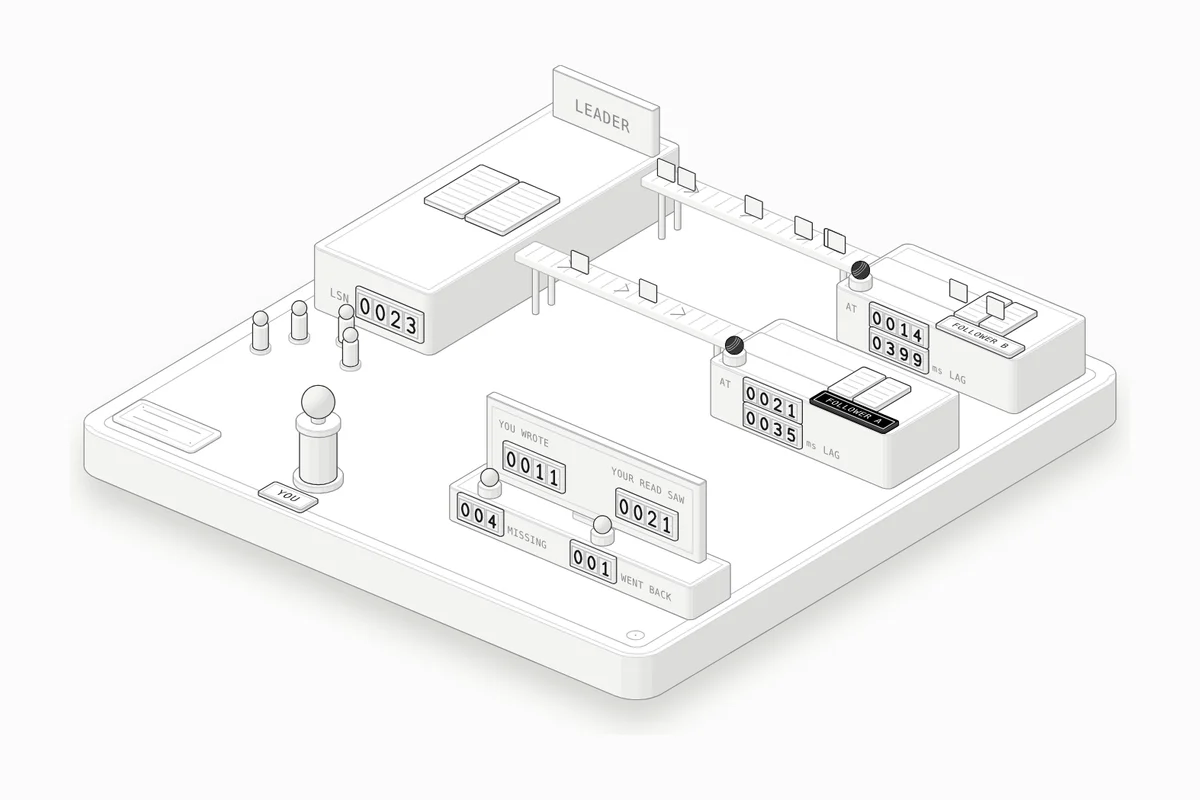
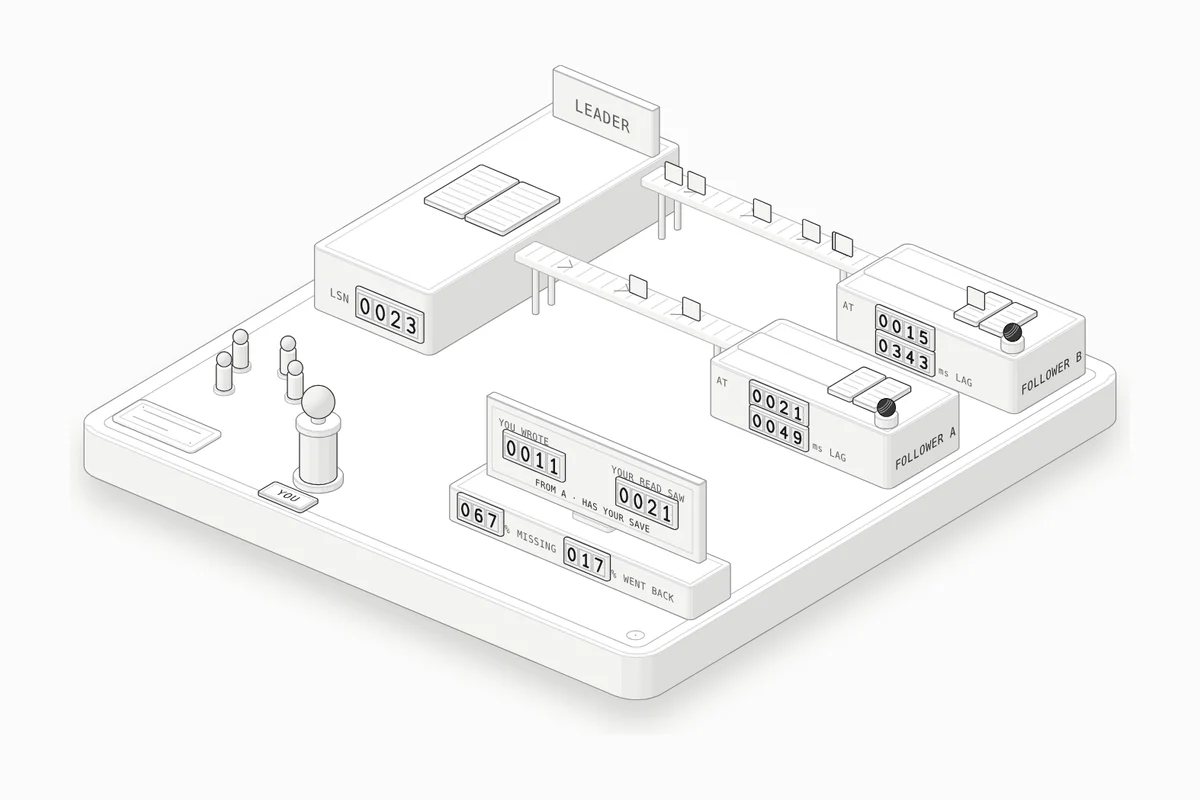
Lesson 60: fix review findings (lit = your save, board shares match the stats, +N on the trays, names on the desks, Watch timing)
Claude-Session: https://claude.ai/code/session_01S5z2gCvevbrGU3fXgpGDmP

diff --git a/src/lessons/replicalag/page.ts b/src/lessons/replicalag/page.ts
@@ -66,7 +66,7 @@ const RUNS = {
         "El retraso de la réplica A llegó a " + s1(w.peak) + ", " + s1(w.peakAfter) + " después de que terminara cada ráfaga, contra " + ms(w.base) + " en promedio el resto del tiempo, y pasó de " + WINDOW + " s durante " + s1(w.over) + ". Con la ventana de " + WINDOW + " s en el líder, " + per(w.missN) + " lecturas por ráfaga no tenían lo que el usuario guardó; siguiendo el LSN, " + per(token.missN) + ", con el " + pct(token.leader) + " de las lecturas en el líder."),
       groups: [
         { title: t("Follower A", "Réplica A"), bars: [[t("Lag, rest of the time (average)", "Retraso, el resto del tiempo (promedio)"), w.base / m, ms(w.base)], [t("Peak lag", "Retraso máximo"), w.peak / m, s1(w.peak), true], [t("Time over " + WINDOW + " s, per burst", "Tiempo por encima de " + WINDOW + " s, por ráfaga"), w.over / m, s1(w.over)]] },
-        { title: t("Reads missing the user's save, per burst", "Lecturas sin lo guardado, por ráfaga"), bars: [[t("Leader " + WINDOW + " s after a save", "Líder " + WINDOW + " s tras guardar"), Math.min(1, w.missN / top(w.missN)), per(w.missN), true], [t("Follower caught up to my LSN", "Réplica al día con mi LSN"), token.missN / top(w.missN), per(token.missN)]] },
+        { title: t("Reads missing the user's save, per burst", "Lecturas sin lo guardado, por ráfaga"), bars: [[t("Leader " + WINDOW + " s after a save", "Líder " + WINDOW + " s tras guardar"), Math.min(1, w.missN / top(w.missN)), per(w.missN), true], [t("Follower caught up to me", "Réplica al día conmigo"), token.missN / top(w.missN), per(token.missN)]] },
       ],
     };
   },
@@ -93,7 +93,7 @@ const EXPERIMENTS = [
       "Asynchronous replication means the leader answers the save as soon as the write is in its own log, and ships it to the followers afterwards: here they applied each write " + DELAY + " after its commit on average. A read-back that lands on a follower sooner than that reads a copy without the save, so " + pct(M.any.miss) + " of read-backs missed it, with nothing failing and both followers keeping up. That is the normal state of async replication, not an incident. Over every read by users who had saved something, only " + pct(M.any.own) + " missed, which is why it hides in a dashboard and is obvious to the user who just pressed Save. On a quiet replica in the same zone lag is often a few milliseconds and the share is smaller, but never zero, and it climbs whenever lag does (experiment 5). The times here are illustrative and round.",
       "Replicación asíncrona significa que el líder responde el guardado apenas la escritura está en su propio log, y se la envía a las réplicas después: aquí aplicaban cada escritura " + DELAY + " después de su commit en promedio. Una lectura tras guardar que cae en una réplica antes de eso lee una copia sin el cambio, así que el " + pct(M.any.miss) + " de las lecturas tras guardar no lo tenía, sin que nada fallara y con las dos réplicas al día. Es el estado normal de la replicación asíncrona, no un incidente. Sobre todas las lecturas de usuarios que ya habían guardado algo, faltó solo en el " + pct(M.any.own) + ", y por eso se esconde en un panel de métricas y es evidente para el usuario que acaba de tocar Guardar. En una réplica tranquila en la misma zona el retraso suele ser de pocos milisegundos y la parte es menor, pero nunca cero, y sube cada vez que sube el retraso (experimento 5). Los tiempos aquí son ilustrativos y redondos.",
     ),
-    watch: { route: "any", commit: "async", b: "healthy" },
+    watch: { route: "any", commit: "async", b: "healthy", until: "miss" },
   },
   {
     id: "mono",
@@ -112,7 +112,7 @@ const EXPERIMENTS = [
       "Each follower only moves forward, but the two are at different points: B is about " + ms(N.any.delayB - N.any.delayA) + " behind A. When the first read lands on A and the second on B before B has caught up to where A was, the user sees time go backwards: " + pct(N.any.quick) + " of quick second reads here. Only that order hurts; going from B to A moves forward, which is why it isn't half of the mixed pairs. The guarantee that a user never sees older data after newer is called monotonic reads. Stick each user to one follower (pick it from a hash of the user ID) and it drops to " + pct(N.sticky.quick) + ". That doesn't make B any fresher: the users stuck to B see older data, but consistently. If their follower fails they move to another, which may be behind the first.",
       "Cada réplica solo avanza, pero las dos están en puntos distintos: B va unos " + ms(N.any.delayB - N.any.delayA) + " detrás de A. Cuando la primera lectura cae en A y la segunda en B antes de que B llegue a donde estaba A, el usuario ve el tiempo ir hacia atrás: el " + pct(N.any.quick) + " de las segundas lecturas rápidas aquí. Solo ese orden hace daño; pasar de B a A avanza, y por eso no es la mitad de los pares mezclados. La garantía de que un usuario nunca vea datos más viejos después de unos más nuevos se llama lecturas monótonas (monotonic reads). Fija cada usuario a una réplica (elígela con un hash del ID de usuario) y baja al " + pct(N.sticky.quick) + ". Eso no hace más fresca a B: los usuarios fijos a B ven datos más viejos, pero de forma consistente. Si su réplica falla pasan a otra, que puede estar detrás de la primera.",
     ),
-    watch: { route: "any", commit: "async", b: "slow" },
+    watch: { route: "any", commit: "async", b: "slow", until: "back" },
   },
   {
     id: "sticky",
@@ -131,7 +131,7 @@ const EXPERIMENTS = [
       "Sticking to a follower makes a user's reads agree with each other; it does nothing to make that follower have the user's write. A read-back still beats replication as often as before: " + pct(Y.sticky.miss) + " stuck to one follower, " + pct(Y.any.miss) + " spread over both (users stuck to B missed " + pct(Y.sticky.missB) + ", users on A " + pct(Y.sticky.missA) + "). Read-your-writes needs the read to go somewhere that has the write. Reading from the leader for " + WINDOW + " s after the user's own save brings it to " + pct(Y.window.miss) + ", but it sends " + pct(Y.window.leader) + " of all reads back to the leader, the load the followers were there to take, and it doesn't stop a second read from going back: a read on the leader followed by one on a follower can (" + pct(Y.window.quick) + " of quick second reads). Rails' automatic role switching works this way, reading from the primary for 2 s after a write by default.",
       "Fijarse a una réplica hace que las lecturas de un usuario coincidan entre sí; no hace que esa réplica tenga la escritura del usuario. Una lectura tras guardar le sigue ganando a la replicación tan seguido como antes: el " + pct(Y.sticky.miss) + " fijo a una réplica, el " + pct(Y.any.miss) + " repartido entre ambas (los usuarios fijos a B fallaron el " + pct(Y.sticky.missB) + ", los de A el " + pct(Y.sticky.missA) + "). Leer tus propias escrituras (read-your-writes) necesita que la lectura vaya a un lugar que tenga la escritura. Leer del líder durante " + WINDOW + " s después del guardado del propio usuario la baja al " + pct(Y.window.miss) + ", pero manda de vuelta al líder el " + pct(Y.window.leader) + " de todas las lecturas, la carga que las réplicas debían quitarle, y no evita que una segunda lectura retroceda: una lectura en el líder seguida de una en una réplica puede hacerlo (el " + pct(Y.window.quick) + " de las segundas lecturas rápidas). El cambio automático de rol de Rails funciona así: lee del primario durante 2 s después de una escritura, por defecto.",
     ),
-    watch: { route: "sticky", commit: "async", b: "slow" },
+    watch: { route: "sticky", commit: "async", b: "slow", until: "miss" },
   },
   {
     id: "sync",
@@ -150,7 +150,7 @@ const EXPERIMENTS = [
       "Semi-synchronous replication (MySQL's, for example) waits until one follower has received the write and stored it in its log, not until it has applied it: it is there so an acknowledged write survives the leader dying. The fast follower acknowledges, and a save takes " + ms(Z.semi.p50) + " instead of " + ms(Z.async.p50) + ". The read-back then lands on B half the time, still far behind, or on A before it has replayed: " + pct(Z.semi.miss) + " of read-backs missed, against " + pct(Z.async.miss) + " async (fewer only because the save itself took longer). Waiting until both followers have applied the write (PostgreSQL's synchronous_commit = remote_apply, with both standbys synchronous) does give read-your-writes, " + pct(Z.sync.miss) + ", but every save waits for the slowest follower: " + ms(Z.sync.p50) + " at the median, " + ms(Z.sync.p99) + " at p99. And if a follower the leader waits for stops, saves stop with it: PostgreSQL waits for a synchronous standby indefinitely, and MySQL's semi-sync falls back to async after a timeout, 10 s by default.",
       "La replicación semisíncrona (la de MySQL, por ejemplo) espera a que una réplica haya recibido la escritura y la haya guardado en su log, no a que la haya aplicado: existe para que una escritura confirmada sobreviva a la caída del líder. Confirma la réplica rápida, y un guardado tarda " + ms(Z.semi.p50) + " en lugar de " + ms(Z.async.p50) + ". Después la lectura tras guardar cae en B la mitad de las veces, todavía muy atrasada, o en A antes de que la aplique: el " + pct(Z.semi.miss) + " de las lecturas tras guardar no lo tenía, contra el " + pct(Z.async.miss) + " asíncrona (menos solo porque el guardado mismo tardó más). Esperar a que las dos réplicas apliquen la escritura (synchronous_commit = remote_apply de PostgreSQL, con las dos réplicas síncronas) sí da leer tus propias escrituras, el " + pct(Z.sync.miss) + ", pero cada guardado espera a la réplica más lenta: " + ms(Z.sync.p50) + " en la mediana y " + ms(Z.sync.p99) + " en el p99. Y si una réplica a la que el líder espera se detiene, los guardados se detienen con ella: PostgreSQL espera a una réplica síncrona indefinidamente, y la semisíncrona de MySQL vuelve a asíncrona tras un tiempo límite (timeout), 10 s por defecto.",
     ),
-    watch: { route: "any", commit: "semi", b: "slow" },
+    watch: { route: "any", commit: "semi", b: "slow", until: "miss" },
   },
   {
     id: "burst",
@@ -168,7 +168,7 @@ const EXPERIMENTS = [
       "Replication lag is a queue (lesson 33, Queues). The leader takes writes from many connections at once; a follower replays them in log order, here up to " + APPLY_RATE + " a second (PostgreSQL replays WAL in a single process). During the burst writes arrive faster than that and the line on A's tray grows. The lag, the age of the oldest write not yet replayed, keeps growing even after the burst ends, because A is still working through writes that came in faster than it copies them: it peaked at " + s1(B.window.peak) + " as the last of them was replayed, " + s1(B.window.peakAfter) + " after the burst, against " + ms(B.window.base) + " on average otherwise. A " + WINDOW + " s leader window is sized for normal lag; for " + s1(B.window.over) + " per burst reads more than a second after a save went to followers that didn't have it yet: " + per(B.window.missN) + " per burst. Tracking the LSN instead (the client keeps the LSN of its last write, and of the newest data it has seen, and reads from a follower only if it has replayed that far, else from the leader) missed " + per(B.token.missN) + " and kept second reads from going back, at the cost of " + pct(B.token.leader) + " of reads on the leader, " + pct(B.token.leaderInBursts) + " of those in the 15 s after a burst began, about a quarter of the time. PostgreSQL exposes the LSNs (pg_current_wal_lsn() on the leader, pg_last_wal_replay_lsn() on a standby), MySQL has GTIDs and WAIT_FOR_EXECUTED_GTID_SET(), and MongoDB's causally consistent sessions carry the same kind of token.",
       "El retraso de replicación es una cola (lección 33, Colas). El líder recibe escrituras de muchas conexiones a la vez; una réplica las aplica en el orden del log, aquí hasta " + APPLY_RATE + " por segundo (PostgreSQL aplica el WAL en un solo proceso). Durante la ráfaga las escrituras llegan más rápido que eso y la fila en la bandeja de A crece. El retraso, la edad de la escritura más vieja todavía sin aplicar, sigue creciendo incluso después de que termina la ráfaga, porque A todavía está procesando escrituras que llegaron más rápido de lo que las copia: llegó a " + s1(B.window.peak) + " cuando aplicó la última, " + s1(B.window.peakAfter) + " después de la ráfaga, contra " + ms(B.window.base) + " en promedio el resto del tiempo. Una ventana de " + WINDOW + " s en el líder está pensada para el retraso normal; durante " + s1(B.window.over) + " por ráfaga, las lecturas más de un segundo después de guardar fueron a réplicas que todavía no tenían el cambio: " + per(B.window.missN) + " por ráfaga. Seguir el LSN (el cliente guarda el LSN de su última escritura, y el de los datos más nuevos que vio, y lee de una réplica solo si ya aplicó hasta ahí, si no del líder) falló " + per(B.token.missN) + " veces y evitó también que las segundas lecturas retrocedieran, a cambio de mandar al líder el " + pct(B.token.leader) + " de las lecturas, el " + pct(B.token.leaderInBursts) + " de ellas en los 15 s después de que empezaba una ráfaga, más o menos un cuarto del tiempo. PostgreSQL expone los LSN (pg_current_wal_lsn() en el líder, pg_last_wal_replay_lsn() en una réplica), MySQL tiene los GTID y WAIT_FOR_EXECUTED_GTID_SET(), y las sesiones con consistencia causal de MongoDB llevan el mismo tipo de marca.",
     ),
-    watch: { route: "window", commit: "async", b: "healthy", burst: true, speed: 0.25 },
+    watch: { route: "window", commit: "async", b: "healthy", burst: 0.3, jump: 1.3, speed: 0.25 },
   },
 ];
 
@@ -204,13 +204,13 @@ export default defineLesson({
     plate: {
       title: t("Copy desks", "Mesas de copia"),
       keys: [
-        { mark: "lit", label: t("Your latest save's slip, the desks that have it, where your last read was served, and a read that missed it or went back", "El papel de tu último guardado, las mesas que lo tienen, dónde se atendió tu última lectura, y una lectura que no lo tenía o retrocedió") },
+        { mark: "lit", label: t("Your latest save: its slip, and the lamp on each desk that has copied it", "Tu último guardado: su papel, y la lámpara de cada mesa que ya lo copió") },
         { mark: "raised", label: t("The leader, the follower desks, the slips on their way", "El líder, las mesas de las réplicas, los papeles en camino") },
         { mark: "flat", label: t("The conveyors: the replication stream, in log order", "Las cintas: el flujo de replicación, en el orden del log") },
       ],
       caption: t(
-        "Played at a tenth of real speed (change it under Speed). The times are illustrative and round: a write reaches a healthy follower " + range(NET.healthy) + " after its commit and takes " + Math.round(1000 * APPLY.healthy) + " ms to replay; a slow B takes " + range(NET.slow) + " and " + Math.round(1000 * APPLY.slow) + " ms. " + USERS + " users browse and save; everyone else adds about " + OTHERS + " writes a second. LSN is the leader's last write; AT, the last one a desk has copied; LAG, how old the oldest write it hasn't copied is. MISSING counts read-backs (the read " + BACK_RANGE + " after a save) without the user's save; WENT BACK, second reads that showed less than the read before.",
-        "Se reproduce a un décimo de la velocidad real (cámbiala en Velocidad). Los tiempos son ilustrativos y redondos: una escritura llega a una réplica sana " + range(NET.healthy) + " después de su commit y tarda " + Math.round(1000 * APPLY.healthy) + " ms en aplicarse; una B lenta tarda " + range(NET.slow) + " y " + Math.round(1000 * APPLY.slow) + " ms. " + USERS + " usuarios navegan y guardan; todos los demás agregan unas " + OTHERS + " escrituras por segundo. LSN es la última escritura del líder; EN, la última que copió una mesa; RETRASO, qué tan vieja es la escritura más antigua que todavía no copió. FALTA cuenta las lecturas tras guardar (la lectura " + BACK_RANGE + " después de un guardado) sin lo que el usuario guardó; RETROCEDIÓ, las segundas lecturas que mostraron menos que la anterior.",
+        "Played at a tenth of real speed (change it under Speed). The times are illustrative and round: a write reaches a healthy follower " + range(NET.healthy) + " after its commit and takes " + Math.round(1000 * APPLY.healthy) + " ms to replay; a slow B takes " + range(NET.slow) + " and " + Math.round(1000 * APPLY.slow) + " ms. " + USERS + " users browse and save; everyone else adds about " + OTHERS + " writes a second. LSN is the leader's last write; AT, the last one a desk has copied; LAG, how old the oldest write it hasn't copied is; +N, the slips waiting beyond the tray. Your board shows where your last read went and what it saw; below, for every user, MISSING is the share of read-backs (the read " + BACK_RANGE + " after a save) without the user's save, and WENT BACK the share of second reads that showed less than the read before.",
+        "Se reproduce a un décimo de la velocidad real (cámbiala en Velocidad). Los tiempos son ilustrativos y redondos: una escritura llega a una réplica sana " + range(NET.healthy) + " después de su commit y tarda " + Math.round(1000 * APPLY.healthy) + " ms en aplicarse; una B lenta tarda " + range(NET.slow) + " y " + Math.round(1000 * APPLY.slow) + " ms. " + USERS + " usuarios navegan y guardan; todos los demás agregan unas " + OTHERS + " escrituras por segundo. LSN es la última escritura del líder; VA EN, la última que copió una mesa; RETRASO, qué tan vieja es la escritura más antigua que todavía no copió; +N, los papeles que esperan más allá de la bandeja. Tu tablero muestra a dónde fue tu última lectura y qué vio; abajo, para todos los usuarios, FALTA es la parte de las lecturas tras guardar (la lectura " + BACK_RANGE + " después de un guardado) sin lo que el usuario guardó, y RETROCEDIÓ la parte de las segundas lecturas que mostraron menos que la anterior.",
       ),
       stage: { "data-copy-desks": "" },
       label: t("Replication lag simulation. Space pauses or resumes.", "Simulación de retraso de replicación. Espacio pausa o reanuda."),

diff --git a/src/lessons/replicalag/figure.ts b/src/lessons/replicalag/figure.ts
@@ -3,9 +3,10 @@
 // on the front, the users who write to it standing by. Two conveyors carry a slip for each entry, in order, to the
 // copy desks, followers A and B; at each desk the slips wait in line on a tray and are copied one at a time into
 // the desk's own ledger, and the counters on the desk's front say how far it has got (AT) and how old the oldest
-// entry it hasn't copied yet is (LAG). The slip of your own latest save is lit. In front, you, and the board that
-// shows what you wrote and what your last read saw. The leader's sign or a desk's name plate lights where your
-// last read was served.
+// entry it hasn't copied yet is (LAG); a "+N" tag counts the slips the tray has no room to show. Your own latest
+// save is lit: its slip, and the lamp on each desk that has copied it. In front, you, and the board that shows what
+// you wrote, what your last read saw and where it was served, over the share of read-backs that missed the user's
+// save (MISSING) and of second reads that went back (WENT BACK), for every user.
 // Built with the Anatomy kit (MIT, github.com/wheresryan22/anatomy) and the shared workbench parts.
 import * as k from "../../../workbench/kit.mjs";
 import { basePlate, labelPlate, digitCounter, lamp, person, figurine, plaque, faceText, litFill } from "../../../workbench/parts.mjs";
@@ -75,17 +76,16 @@ function leader() {
   out.push(ledger(LEAD.x + 7, LEAD.y + 40, 26, 22, LEAD_H, 7));
   // the sign at the back of its top
   const sign = { x: LEAD.x + 4, y: LEAD.y + 6, w: 32, d: 3, r: 0.5 };
-  // (lit when your last read was served here)
-  out.push(`<g class="wb-lit-group" data-node="L">` + S(k.slabOf(sign, LEAD_H, 13, P, 3, 0.3), { tone: "mid", crease: "lo" })
-    + text(sign.x + sign.w / 2, sign.y + sign.d, LEAD_H + 4.2, t("LEADER", "LÍDER"), 4.6, { anchor: "middle" }) + `</g>`);
+  out.push(S(k.slabOf(sign, LEAD_H, 13, P, 3, 0.3), { tone: "mid", crease: "lo" })
+    + text(sign.x + sign.w / 2, sign.y + sign.d, LEAD_H + 4.2, t("LEADER", "LÍDER"), 4.6, { anchor: "middle" }));
   // its LSN on the front face
   out.push(text(LEAD.x + 6, LEAD_FRONT, 5.4, "LSN", 3.2));
   out.push(digitCounter(P, { x: LEAD.x + 15, y: LEAD_FRONT, z: 3.6, count: 4, w: 4.4, h: 6, gap: 0.5, pad: 1, name: "lsn" }));
   return out.join("");
 }
-// The users who write to the leader: a small crowd by its front.
+// The users who write to the leader: a small crowd in front of it, clear of its LSN counter.
 function crowd() {
-  return [[-82, -16], [-72, -22], [-64, -14], [-86, -6]].map(([x, y]) => figurine(P, [x, y, 0], { scale: 0.8 })).join("");
+  return [[-84, 4], [-73, -1], [-64, 7], [-80, 15]].map(([x, y]) => figurine(P, [x, y, 0], { scale: 0.8 })).join("");
 }
 
 // ---------- the conveyors ----------
@@ -115,23 +115,25 @@ function desk(i) {
   out.push(S(k.slabOf({ x: d.x + 1.5, y: y - 4.5, w: 30, d: 9, r: 0.6 }, DESK_H, 0.6, P, 2, 0.2), { tone: "lo", crease: "none" }));
   // the copy of the ledger
   out.push(ledger(d.x + BOOK.dx, y - BOOK.d / 2, BOOK.w, BOOK.d, DESK_H, 5));
-  // its name plate, lying at the front: lit when your last read was served here (an upright sign would hide B)
-  out.push(`<g class="wb-lit-group" data-node="${i}">` + plaque(P, { x: d.x + 32, y: d.y + 21.4, z: DESK_H, w: 24, d: 6.2, text: t("FOLLOWER " + name, "RÉPLICA " + name), size: 2.7 }) + `</g>`);
+  // its name, on the right face (an upright sign on the top would hide B)
+  out.push(faceText(P, [d.x + d.w, d.y + d.d - 2.4, 4.6], t("FOLLOWER " + name, "RÉPLICA " + name), { face: "x", size: 3.6, tone: "hi" }));
+  // the slips the tray has no room to show, at the end of the line where they come in
+  out.push(faceText(P, [d.x + 2, y + 9.6, DESK_H], "", { face: "top", size: 4.4, tone: "hi", attr: `data-more="${i}"` }));
   return out.join("");
 }
 // The desk's front face: how far it has got (AT, an LSN) on top, how far behind (ms) below.
 function counters(i) {
   const d = DESKS[i], front = d.y + d.d;
-  return text(d.x + 4, front, 10, t("AT", "EN"), 2.8)
-    + digitCounter(P, { x: d.x + 12, y: front, z: 8.8, count: 4, w: 3.8, h: 4.6, gap: 0.5, pad: 0.8, name: "at" + i })
-    + digitCounter(P, { x: d.x + 12, y: front, z: 1.8, count: 4, w: 3.8, h: 4.6, gap: 0.5, pad: 0.8, name: "lag" + i })
-    + text(d.x + 31.6, front, 2.9, "ms", 2.6)
-    + text(d.x + 37, front, 2.9, t("LAG", "RETRASO"), 2.8);
+  return text(d.x + 3, front, 10, t("AT", "VA EN"), 2.8)
+    + digitCounter(P, { x: d.x + 14, y: front, z: 8.8, count: 4, w: 3.8, h: 4.6, gap: 0.5, pad: 0.8, name: "at" + i })
+    + digitCounter(P, { x: d.x + 14, y: front, z: 1.8, count: 4, w: 3.8, h: 4.6, gap: 0.5, pad: 0.8, name: "lag" + i })
+    + text(d.x + 33.6, front, 2.9, "ms", 2.6)
+    + text(d.x + 39, front, 2.9, t("LAG", "RETRASO"), 2.8);
 }
 // The lamp that lights once the desk has applied your latest save.
 function yours(i) {
   const d = DESKS[i];
-  const p = [d.x + 5, d.y + d.d - 4.4, DESK_H];
+  const p = [d.x + 53, d.y + d.d - 5, DESK_H];
   return `<g data-lamp="yours${i}"><g data-off-lamp>${lamp(P, p, { r: 2.2 })}</g><g data-on-lamp style="display:none">${litFill(lamp(P, p, { r: 2.2, lit: true }))}</g></g>`;
 }
 
@@ -140,27 +142,23 @@ function board() {
   const out = [S(k.slabOf(BOARD, 0, BOARD_H, P, 3, 0.5), { tone: "mid" })];
   out.push(L(k.planOutline(k.insetPlan(BOARD, 1.8), BOARD_H, P), { tone: "faint" }));
   const front = BOARD.y + BOARD.d;
-  // everyone's totals on the front face
-  out.push(digitCounter(P, { x: BOARD.x + 4, y: front, z: 2.2, count: 3, w: 3.8, h: 5, gap: 0.5, pad: 0.9, name: "missing" }));
-  out.push(text(BOARD.x + 19.4, front, 3.2, t("MISSING", "FALTA"), 2.8));
-  out.push(digitCounter(P, { x: BOARD.x + 40, y: front, z: 2.2, count: 3, w: 3.8, h: 5, gap: 0.5, pad: 0.9, name: "wentBack" }));
-  out.push(text(BOARD.x + 55.6, front, 3.2, t("WENT BACK", "RETROCEDIÓ"), 2.8));
-  // the screen on top: what you wrote, what your last read saw
+  // everyone's shares on the front face, as the panel shows them
+  const share = (x, name, words) => digitCounter(P, { x, y: front, z: 2.2, count: 3, w: 3.8, h: 5, gap: 0.5, pad: 0.9, name })
+    + text(x + 14.4, front, 3.2, "%", 2.8) + text(x + 18.4, front, 3.2, words, 2.8);
+  out.push(share(BOARD.x + 4, "missing", t("MISSING", "FALTA")));
+  out.push(share(BOARD.x + 38, "wentBack", t("WENT BACK", "RETROCEDIÓ")));
+  // the screen on top: what you wrote, what your last read saw, and where it was served
   out.push(S(k.slabOf({ x: SCREEN.x + SCREEN.w / 2 - 6, y: SCREEN.y - 3, w: 12, d: 7, r: 1 }, BOARD_H, 1.4, P, 3, 0.3), { tone: "lo" }));
   out.push(S(k.slabOf(SCREEN, BOARD_H + 1.4, SCREEN_H, P, 3, 0.4), { tone: "mid", crease: "lo" }));
   const z0 = BOARD_H + 1.4, top = z0 + SCREEN_H, face = SCREEN.y + SCREEN.d;
   out.push(L(k.faceRectY(P, SCREEN.x + 2, SCREEN.x + SCREEN.w - 2, face, z0 + 2, top - 2), { tone: "faint" }));
-  out.push(text(SCREEN.x + 4, face, top - 7, t("YOU WROTE", "ESCRIBISTE"), 2.8));
-  out.push(digitCounter(P, { x: SCREEN.x + 6, y: face, z: z0 + 4.4, count: 4, w: 4, h: 5.6, gap: 0.5, pad: 0.9, name: "wrote" }));
-  out.push(text(SCREEN.x + 40, face, top - 7, t("YOUR READ SAW", "TU LECTURA VIO"), 2.8));
-  out.push(digitCounter(P, { x: SCREEN.x + 42, y: face, z: z0 + 4.4, count: 4, w: 4, h: 5.6, gap: 0.5, pad: 0.9, name: "saw" }));
+  out.push(text(SCREEN.x + 4, face, top - 6.6, t("YOU WROTE", "ESCRIBISTE"), 2.8));
+  out.push(digitCounter(P, { x: SCREEN.x + 6, y: face, z: z0 + 7.6, count: 4, w: 4, h: 5.6, gap: 0.5, pad: 0.9, name: "wrote" }));
+  out.push(text(SCREEN.x + 40, face, top - 6.6, t("YOUR READ SAW", "TU LECTURA VIO"), 2.8));
+  out.push(digitCounter(P, { x: SCREEN.x + 42, y: face, z: z0 + 7.6, count: 4, w: 4, h: 5.6, gap: 0.5, pad: 0.9, name: "saw" }));
+  // one line under them, set live: where your last read went, and whether it had your save
+  out.push(faceText(P, [SCREEN.x + SCREEN.w / 2, face, z0 + 2.8], "", { size: 2.6, tone: "hi", anchor: "middle", attr: "data-verdict" }));
   return out.join("");
-}
-// On the board's top, in front of the screen, over each total: lit when your last read missed your save, or went back.
-function boardLamps() {
-  const y = BOARD.y + BOARD.d - 4.4;
-  const lampAt = (x, name) => `<g data-lamp="${name}"><g data-off-lamp>${lamp(P, [x, y, BOARD_H], { r: 2.2 })}</g><g data-on-lamp style="display:none">${litFill(lamp(P, [x, y, BOARD_H], { r: 2.2, lit: true }))}</g></g>`;
-  return lampAt(BOARD.x + 10, "missing") + lampAt(BOARD.x + 46, "back");
 }
 function you() {
   return person(P, YOU, { scale: 1.1 }) + plaque(P, { x: YOU[0] - 7, y: YOU[1] + 8, w: 14, d: 7, text: t("YOU", "TÚ"), size: 3.4 });
@@ -179,8 +177,8 @@ export function buildFigure() {
     width: WIDTH,
     height: HEIGHT,
     label: t(
-      "A main ledger and two copy desks on a base plate. On the left, the leader: a long block with an open ledger on top, a LEADER sign, and its LSN counter on the front, the number of the last write it took; a few users stand by it. Two conveyors run from the leader to two copy desks on the right, follower A in front and follower B at the back, carrying a slip for every write, in order. On each desk the slips wait on a tray and are copied one at a time into the desk's own ledger, and the desk's front shows how far it has got (AT, an LSN) and how many milliseconds old the oldest write it hasn't copied is (LAG). The slip for your own latest save is lit, and a lamp on each desk lights once that desk has copied it. In front stand you and your board: what you wrote and what your last read saw, a MISSING lamp when that read didn't have your save and a WENT BACK lamp when it showed less than a read before it, each over a counter that adds them up for every user. The LEADER sign or a desk's name plate lights where your last read was served.",
-      "Un libro mayor y dos mesas de copia sobre una placa base. A la izquierda, el líder: un bloque largo con un libro abierto encima, un letrero LÍDER y su contador LSN al frente, el número de la última escritura que recibió; unos usuarios esperan a su lado. Dos cintas transportadoras van del líder a dos mesas de copia a la derecha, la réplica A adelante y la réplica B al fondo, y llevan un papel por cada escritura, en orden. En cada mesa los papeles esperan en una bandeja y se copian uno a la vez en el libro propio de la mesa, y el frente de la mesa muestra hasta dónde llegó (EN, un LSN) y cuántos milisegundos tiene la escritura más vieja que todavía no copió (RETRASO). El papel de tu último guardado está encendido, y una lámpara en cada mesa se enciende cuando esa mesa ya lo copió. Adelante estás tú con tu tablero: lo que escribiste y lo que vio tu última lectura, una lámpara FALTA cuando esa lectura no tenía tu guardado y una lámpara RETROCEDIÓ cuando mostró menos que una lectura anterior, cada una sobre un contador que suma esos casos para todos los usuarios. El letrero LÍDER o la placa con el nombre de una mesa se enciende donde se atendió tu última lectura.",
+      "A main ledger and two copy desks on a base plate. On the left, the leader: a long block with an open ledger on top, a LEADER sign, and its LSN counter on the front, the number of the last write it took; a few users stand in front of it. Two conveyors run from the leader to two copy desks on the right, follower A in front and follower B at the back, each named on its right side, carrying a slip for every write, in order. On each desk the slips wait on a tray and are copied one at a time into the desk's own ledger; a +N tag at the end of the line counts the slips the tray has no room to show. The desk's front shows how far it has got (AT, an LSN) and how many milliseconds old the oldest write it hasn't copied is (LAG). The slip for your own latest save is lit, and a lamp on each desk lights once that desk has copied it. In front stand you and your board: its screen shows what you wrote, what your last read saw, and a line saying where that read was served and whether it had your save; its front shows, for every user since the run started, the share of read-backs that missed the user's save (MISSING) and of second reads that went back (WENT BACK).",
+      "Un libro mayor y dos mesas de copia sobre una placa base. A la izquierda, el líder: un bloque largo con un libro abierto encima, un letrero LÍDER y su contador LSN al frente, el número de la última escritura que recibió; unos usuarios esperan delante. Dos cintas transportadoras van del líder a dos mesas de copia a la derecha, la réplica A adelante y la réplica B al fondo, cada una con su nombre en el costado derecho, y llevan un papel por cada escritura, en orden. En cada mesa los papeles esperan en una bandeja y se copian uno a la vez en el libro propio de la mesa; una marca +N al final de la fila cuenta los papeles que no caben en la bandeja. El frente de la mesa muestra hasta dónde llegó (VA EN, un LSN) y cuántos milisegundos tiene la escritura más vieja que todavía no copió (RETRASO). El papel de tu último guardado está encendido, y una lámpara en cada mesa se enciende cuando esa mesa ya lo copió. Adelante estás tú con tu tablero: su pantalla muestra lo que escribiste, lo que vio tu última lectura y una línea que dice dónde se atendió esa lectura y si tenía tu guardado; su frente muestra, para todos los usuarios desde que empezó la ejecución, la parte de las lecturas tras guardar sin lo guardado (FALTA) y de las segundas lecturas que retrocedieron (RETROCEDIÓ).",
     ),
     body: [
       plate(),
@@ -188,7 +186,7 @@ export function buildFigure() {
       belt(1), desk(1), counters(1), yours(1), `<g data-layer="slips1"></g>`,
       crowd(),
       belt(0), desk(0), counters(0), yours(0), `<g data-layer="slips0"></g>`,
-      board(), boardLamps(),
+      board(),
       you(),
     ],
   });

diff --git a/src/lessons/replicalag/live.ts b/src/lessons/replicalag/live.ts
@@ -1,12 +1,13 @@
 // @ts-nocheck: live code in the style of the other lessons; shared helpers come from src/runtime and src/lib.
 // The copy desks in the browser: runs the model in slow motion, rides the slips along the conveyors, lines them up
-// on each desk's tray and copies them into its ledger, turns the counters, lights your slip and the lamps, and
-// answers the controls. mount() gets the build-time data from page.ts (projection, geometry, the slip drawing) and
+// on each desk's tray and copies them into its ledger, turns the counters, lights your slip and the lamps of the
+// desks that have it, and answers the controls. "Watch it on the machine" jumps the run to a few seconds before the
+// moment the experiment is about, found by running the same seed ahead. mount() gets the build-time data from page.ts (projection, geometry, the slip drawing) and
 // root, the <wb-lesson>.
 import { translateAlong, depthOf } from "../../../workbench/vendor-anatomy/kit/iso-kit.mjs";
 import * as WB from "../../runtime/wb";
 import { L, T } from "../../runtime/wb";
-import { show, setLit, playPause } from "../../runtime/dom";
+import { show, setLit, setText, playPause } from "../../runtime/dom";
 import { lerp, smoothstep } from "../../lib/tween";
 import { clamp, rankQuantile } from "../../lib/stats";
 import { makeSim, BURST } from "./sim";
@@ -19,10 +20,10 @@ export default function mount({ P, G, SLIP_SVG }, root) {
   const layers = [q('[data-layer="slips0"]'), q('[data-layer="slips1"]')];
   const counters = Object.fromEntries(["lsn", "at0", "at1", "lag0", "lag1", "wrote", "saw", "missing", "wentBack"].map((n) => [n, WB.counter(svg, n, P)]));
   const lampEl = (name) => { const g = q(`[data-lamp="${name}"]`); return { on: g.querySelector("[data-on-lamp]"), off: g.querySelector("[data-off-lamp]") }; };
-  const lamps = { yours0: lampEl("yours0"), yours1: lampEl("yours1"), missing: lampEl("missing"), back: lampEl("back") };
+  const lamps = { yours0: lampEl("yours0"), yours1: lampEl("yours1") };
   const setLamp = (l, on) => { show(l.on, on); show(l.off, !on); };
-  const nodes = { L: q('[data-node="L"]'), 0: q('[data-node="0"]'), 1: q('[data-node="1"]') };
-  const MAX_BELT = 40;                 // slips drawn on one conveyor at a time
+  const more = [q('[data-more="0"]'), q('[data-more="1"]')], verdict = q("[data-verdict]");
+  const MAX_BELT = 120;                // slips drawn on one conveyor at a time
 
   // ---------- slips: pooled elements per conveyor ----------
   const pools = [[], []], used = [[], []];
@@ -36,15 +37,19 @@ export default function mount({ P, G, SLIP_SVG }, root) {
 
   // ---------- settings and the run ----------
   const cfg = { route: "any", commit: "async", b: "slow", speed: 0.1 };
-  let model, clock, logAt, seed = 5;
+  let model, clock, logAt, seed = 5, runCfg = null, runSeed = 5;
   let youW = null, lastRead = null, readAt = -9;
+  const arrived = [0, 0];               // per follower: writes that have reached it (they arrive in log order)
 
-  function restart(withBursts = false) {
+  // withBursts: the time of the first batch burst, then one every 20 s
+  function restart(withBursts = null) {
     for (const f of [0, 1]) { for (const el of used[f]) { el.g.remove(); pools[f].push(el); } used[f] = []; }
-    const burst = withBursts ? Array.from({ length: 12 }, (_, i) => ({ at: 1 + 20 * i, rate: BURST.rate, dur: BURST.dur })) : [];
-    model = makeSim({ route: cfg.route, commit: cfg.commit, b: cfg.b, burst }, seed);
+    const burst = withBursts !== null ? Array.from({ length: 12 }, (_, i) => ({ at: withBursts + 20 * i, rate: BURST.rate, dur: BURST.dur })) : [];
+    runCfg = { route: cfg.route, commit: cfg.commit, b: cfg.b, burst }; runSeed = seed;
+    model = makeSim(runCfg, seed);
     seed = (seed * 7 + 3) % 9973 + 1;
     clock = 0; logAt = 0; youW = null; lastRead = null; readAt = -9; held = null; saidAt = -9; saidRank = 0;
+    arrived[0] = arrived[1] = 0;
     paint();
     showStats();
   }
@@ -53,21 +58,28 @@ export default function mount({ P, G, SLIP_SVG }, root) {
   const NODE = { L: T("the leader", "el líder"), 0: T("A", "A"), 1: T("B", "B") };
   const TO = { L: "al líder", 0: "a A", 1: "a B" };   // Spanish: "fue al líder", "fue a A"
   const four = (n) => String(n % 10000).padStart(4, "0");
+  const T_BURST = () => T("a batch job writes " + BURST.rate + " a second for " + BURST.dur + " s", "un proceso por lotes escribe " + BURST.rate + " por segundo durante " + BURST.dur + " s");
   let held = null, saidAt = -9, saidRank = 0;
-  function say(rank, text) {
-    // a message stays up at least 1.4 s of page time unless a more important one comes; a less important one waits
+  // a message stays up at least 1.4 s of page time (3 s for a read that missed your save or went back) unless a more
+  // important one comes; a less important one waits
+  const holdFor = (rank) => (rank >= 4 ? 3 : 1.4);
+  // read: the read of yours a message is about; the board shows it once the message is up, so the board and the
+  // readout always talk about the same read
+  function say(rank, text, read = null) {
     const wall = performance.now() / 1000;
-    if (rank < saidRank && wall - saidAt < 1.4) { held = { rank, text }; return; }
+    if (rank < saidRank && wall - saidAt < holdFor(saidRank)) { held = { rank, text, read }; return; }
     held = null; saidRank = rank; saidAt = wall;
+    if (read) lastRead = read;
     root.figure.say(L(text));
   }
   function sayHeld() {
-    if (held && performance.now() / 1000 - saidAt >= 1.4) { const h = held; held = null; saidRank = -1; say(h.rank, h.text); }
+    if (held && performance.now() / 1000 - saidAt >= holdFor(saidRank)) { const h = held; held = null; saidRank = -1; say(h.rank, h.text, h.read); }
   }
-  function narrate() {
+  function narrate(quiet = false) {
     for (; logAt < model.log.length; logAt++) {
       const e = model.log[logAt];
       if (e.t > clock) break;
+      if (quiet) { if (e.type === "write") youW = e.w; else if (e.type === "read") { lastRead = e; readAt = clock; } continue; }
       switch (e.type) {
         case "write": {
           youW = e.w;
@@ -82,15 +94,14 @@ export default function mount({ P, G, SLIP_SVG }, root) {
           if (cfg.commit !== "async") say(2, T("saved · the commit took " + Math.round(1000 * (e.w.ret - e.w.t)) + " ms", "guardado · el commit tardó " + Math.round(1000 * (e.w.ret - e.w.t)) + " ms"));
           break;
         case "read": {
-          lastRead = e; readAt = clock;
           const where = NODE[e.node], to = TO[e.node], at = "#" + four(e.got);
-          if (e.miss) say(4, T("your read went to " + where.en + " · it is at " + at + " · your save is missing", "tu lectura fue " + to + " · va en " + at + " · falta tu guardado"));
-          else if (e.backInTime) say(4, T("your read went to " + where.en + " · it shows less than your last read", "tu lectura fue " + to + " · muestra menos que tu lectura anterior"));
-          else if (e.isBack) say(2, T("your read went to " + where.en + " · your save is there", "tu lectura fue " + to + " · tu guardado está"));
-          else say(1, T("you look again · " + where.en + " · at " + at, "miras de nuevo · " + where.es + " · en " + at));
+          if (e.miss) say(4, T("your read went to " + where.en + " · it is at " + at + " · your save is missing", "tu lectura fue " + to + " · va en " + at + " · falta tu guardado"), e);
+          else if (e.backInTime) say(4, T("your read went to " + where.en + " · it shows less than your last read", "tu lectura fue " + to + " · muestra menos que tu lectura anterior"), e);
+          else if (e.isBack) say(2, T("your read went to " + where.en + " · your save is there", "tu lectura fue " + to + " · tu guardado está"), e);
+          else say(1, T("you look again · " + where.en + " · at " + at, "miras de nuevo · " + where.es + " · en " + at), e);
           break;
         }
-        case "burstStart": say(5, T("a batch job writes " + BURST.rate + " a second for " + BURST.dur + " s", "un proceso por lotes escribe " + BURST.rate + " por segundo durante " + BURST.dur + " s")); break;
+        case "burstStart": say(5, T_BURST()); break;
         case "burstEnd": say(5, T("burst over · the followers are still replaying it", "terminó la ráfaga · las réplicas todavía la aplican")); break;
       }
     }
@@ -114,6 +125,10 @@ export default function mount({ P, G, SLIP_SVG }, root) {
   function paintSlips(f, now) {
     const F = model.F[f], ws = model.writes, n = ws.length, items = [];
     const applied = model.appliedAt(F, now);
+    while (arrived[f] < n && ws[arrived[f]].f[f].arrive <= now) arrived[f]++;
+    // the tray shows the one being copied and Q.slots waiting; the rest are counted on the "+N" tag
+    const over = Math.max(0, arrived[f] - applied - (Q.slots + 1));
+    if (more[f].over !== over) { more[f].over = over; setText(more[f], over ? "+" + over : ""); }
     // the one being copied, then the line on the tray
     for (let i = applied; i < n && i <= applied + Q.slots; i++) {
       const w = ws[i];
@@ -153,15 +168,24 @@ export default function mount({ P, G, SLIP_SVG }, root) {
     }
     counters.wrote.set(youW ? youW.lsn % 10000 : 0);
     counters.saw.set(lastRead ? lastRead.got % 10000 : 0);
-    setLamp(lamps.missing, !!lastRead && lastRead.miss);
-    setLamp(lamps.back, !!lastRead && lastRead.backInTime);
-    for (const k of ["L", 0, 1]) { const on = !!lastRead && String(lastRead.node) === String(k); if (nodes[k].lit !== on) { nodes[k].lit = on; setLit(nodes[k], on); } }
-    counters.missing.setClamped(model.st.backMiss);
-    counters.wentBack.setClamped(model.st.quickBack);
+    const v = verdictOf(lastRead);
+    if (verdict.said !== v) { verdict.said = v; setText(verdict, v); }
+    // the same shares as the panel's first two stats
+    counters.missing.setClamped(pctNum(model.st.backMiss, model.st.backs));
+    counters.wentBack.setClamped(pctNum(model.st.quickBack, model.st.quick));
+  }
+  // the board's line about your last read: where it was served, and whether it had your save
+  function verdictOf(r) {
+    if (!r) return "";
+    const from = r.node === "L" ? L("FROM THE LEADER", "DEL LÍDER") : L("FROM " + (r.node ? "B" : "A"), "DE " + (r.node ? "B" : "A"));
+    if (r.miss) return from + " · " + L("YOUR SAVE IS MISSING", "FALTA TU GUARDADO");
+    if (r.backInTime) return from + " · " + L("LESS THAN YOUR LAST READ", "MENOS QUE TU LECTURA ANTERIOR");
+    return r.wrote ? from + " · " + L("HAS YOUR SAVE", "TIENE TU GUARDADO") : from;
   }
 
   // ---------- stats ----------
-  const pctOf = (a, b) => (b ? Math.round((100 * a) / b) + "%" : "–");
+  const pctNum = (a, b) => (b ? Math.round((100 * a) / b) : 0);
+  const pctOf = (a, b) => (b ? pctNum(a, b) + "%" : "–");
   const msText = (x) => Math.round(1000 * x) + " ms";
   function showStats() {
     const st = model.st;
@@ -203,11 +227,42 @@ export default function mount({ P, G, SLIP_SVG }, root) {
   };
   root.on("action", (name) => actions[name]?.());
 
-  // ---------- "Watch it on the machine": an experiment's settings ----------
+  // ---------- "Watch it on the machine": an experiment's settings, and the moment it's about ----------
+  // The first time your own read does what the experiment asks about, found by running the same seed ahead without
+  // drawing it: a read-back without your save, or a second look that shows less than the one before.
+  const MOMENTS = {
+    miss: (e) => e.type === "read" && e.isBack && e.miss,
+    back: (e) => e.type === "read" && e.backInTime && !e.miss,
+  };
+  function firstMoment(pred, cap = 120) {
+    const m = makeSim(runCfg, runSeed);
+    for (let T = 0.5, j = 0; T <= cap; T += 0.5) {
+      m.runTo(T);
+      for (; j < m.log.length; j++) if (pred(m.log[j])) return m.log[j].t;
+    }
+    return null;
+  }
+  // Run the model to T without narrating what happened before it, keeping what the board shows.
+  function jumpTo(T) {
+    if (T <= clock) return;
+    model.runTo(T);
+    clock = T;
+    narrate(true);
+    if (model.bursts.some((b) => b.at <= T && T < b.end)) say(5, T_BURST());
+    paint();
+    showStats();
+  }
   root.on("watch", (w) => {
     for (const key of ["route", "commit", "b"]) set(key, w[key], true);
     set("speed", w.speed ?? 0.1, true);
-    restart(!!w.burst);
+    restart(w.burst ?? null);
+    if (w.until && MOMENTS[w.until]) {
+      const t = firstMoment(MOMENTS[w.until]);
+      // land about 4.5 s of page time before it
+      if (t !== null) jumpTo(t - 4.5 * cfg.speed);
+    }
+    // or straight to a moment of the run (into the first burst)
+    if (w.jump) jumpTo(w.jump);
     wake();
   });
 
